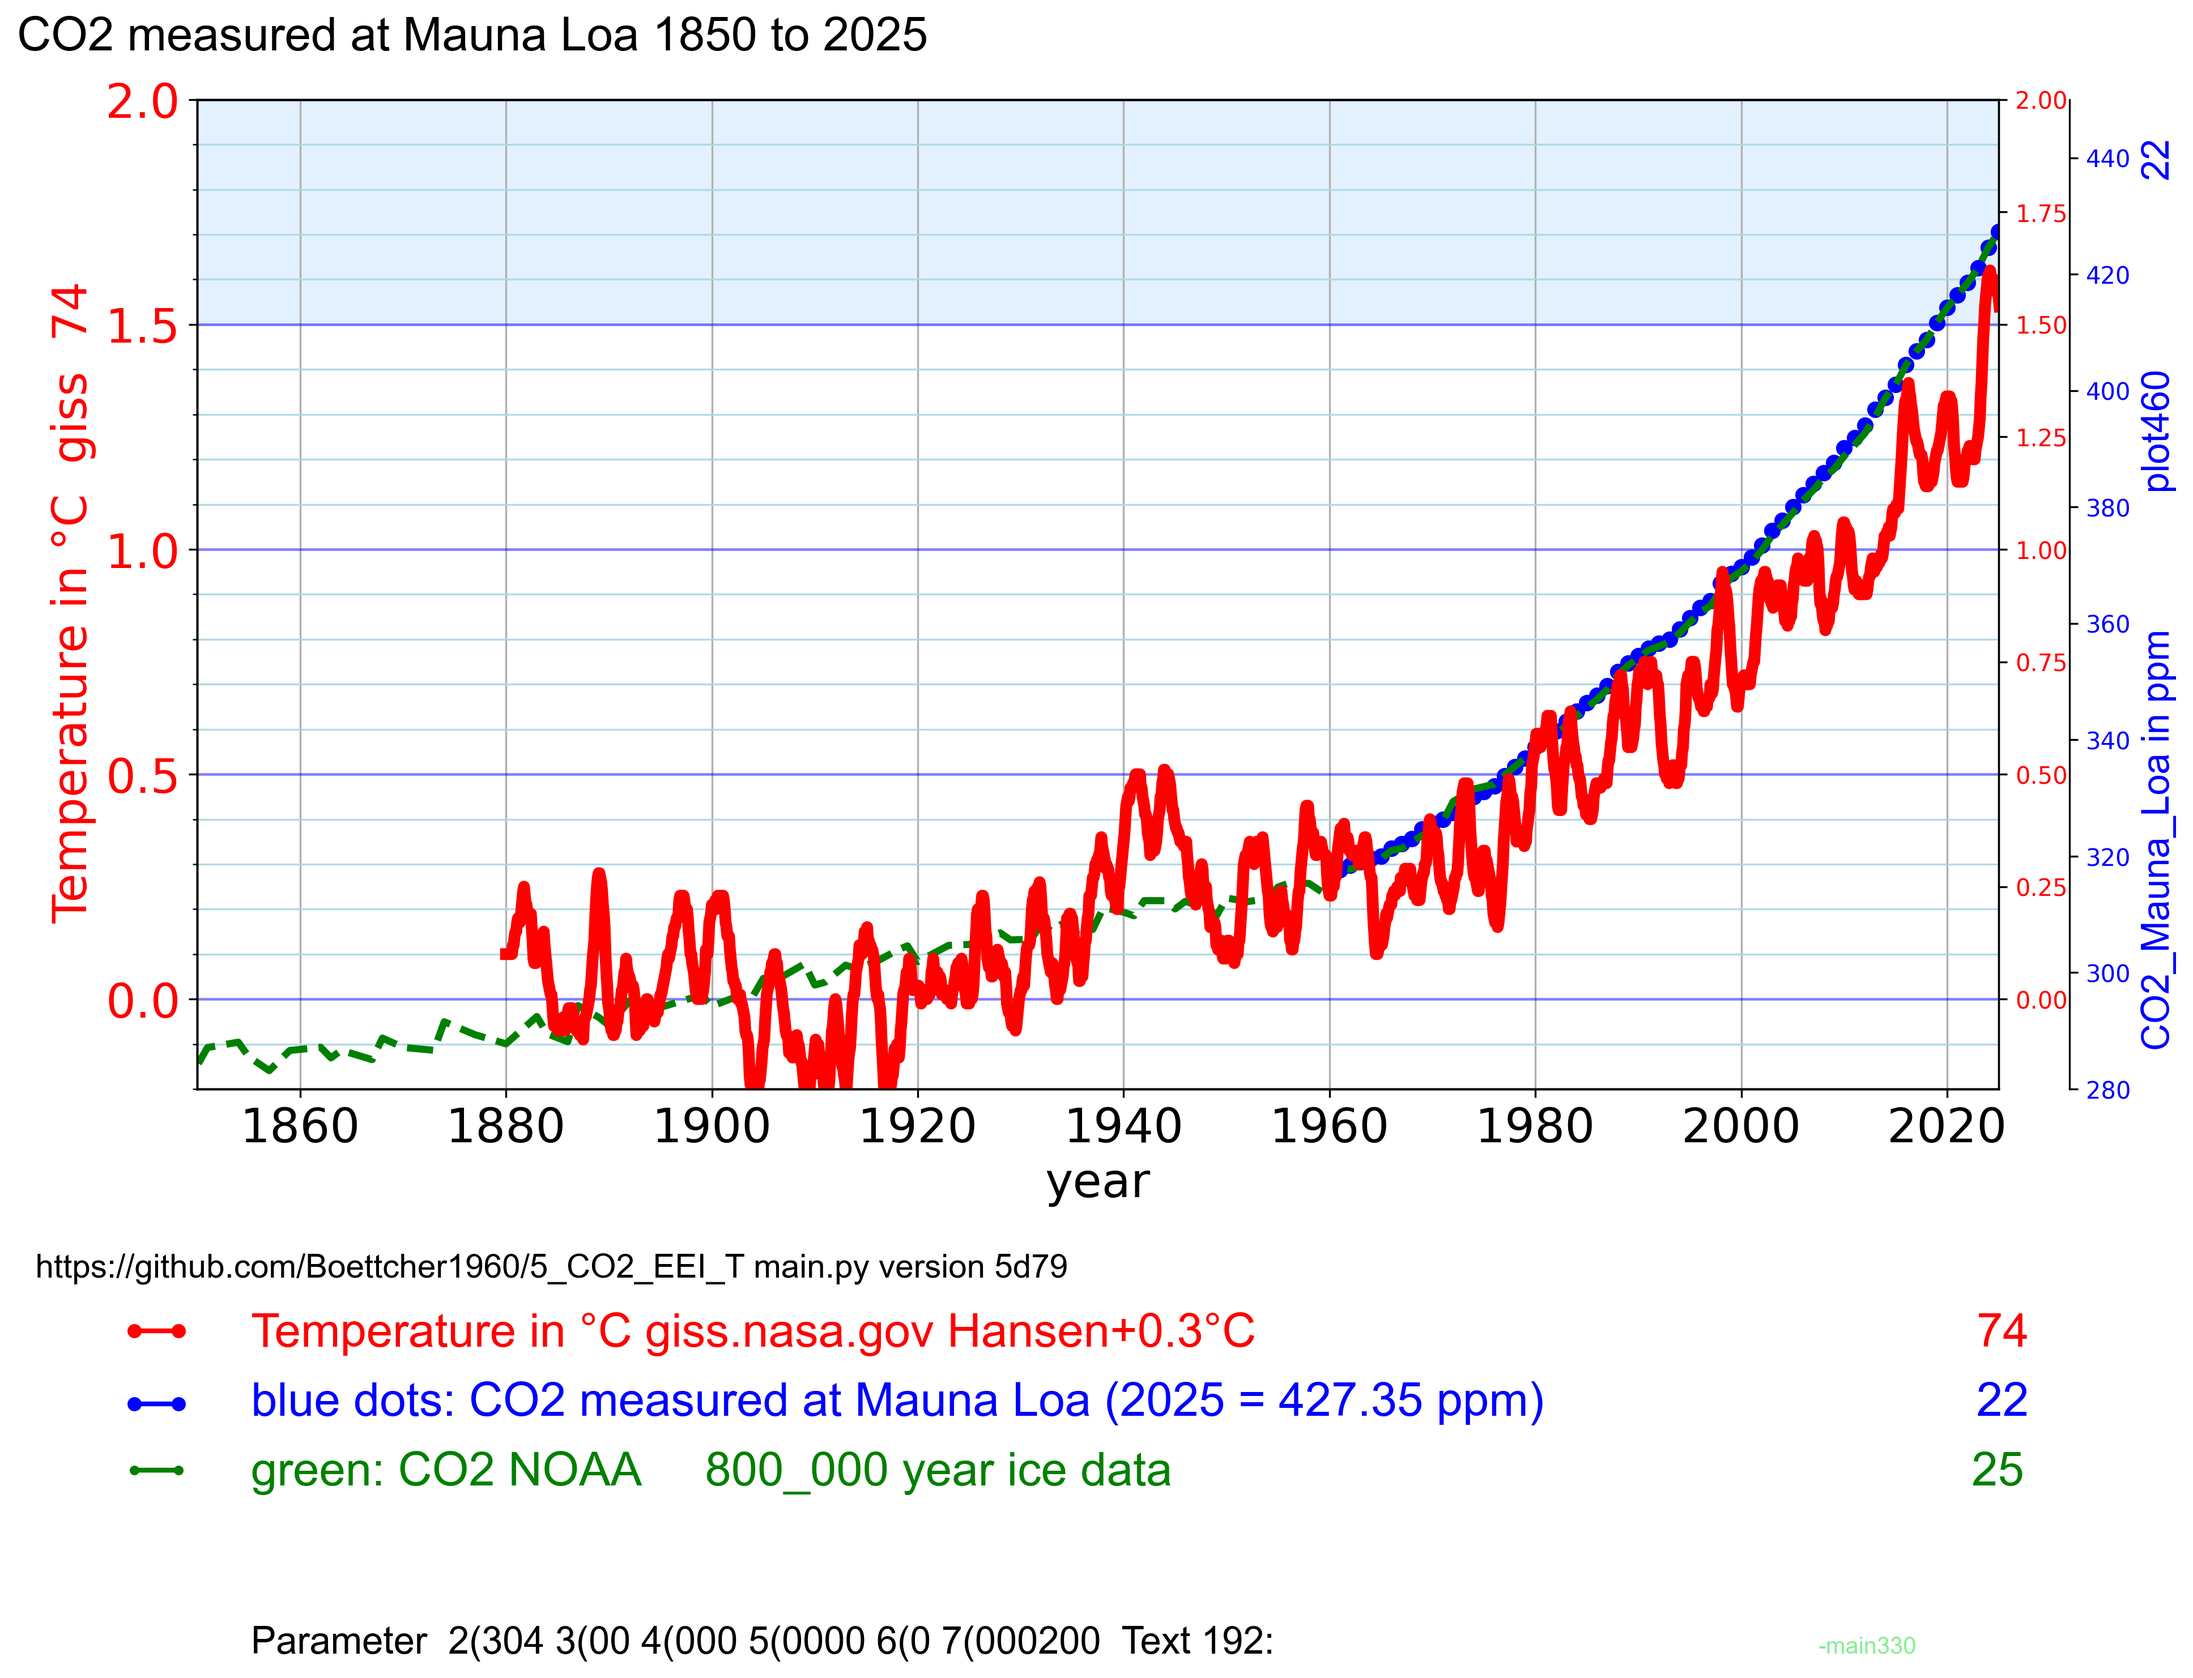
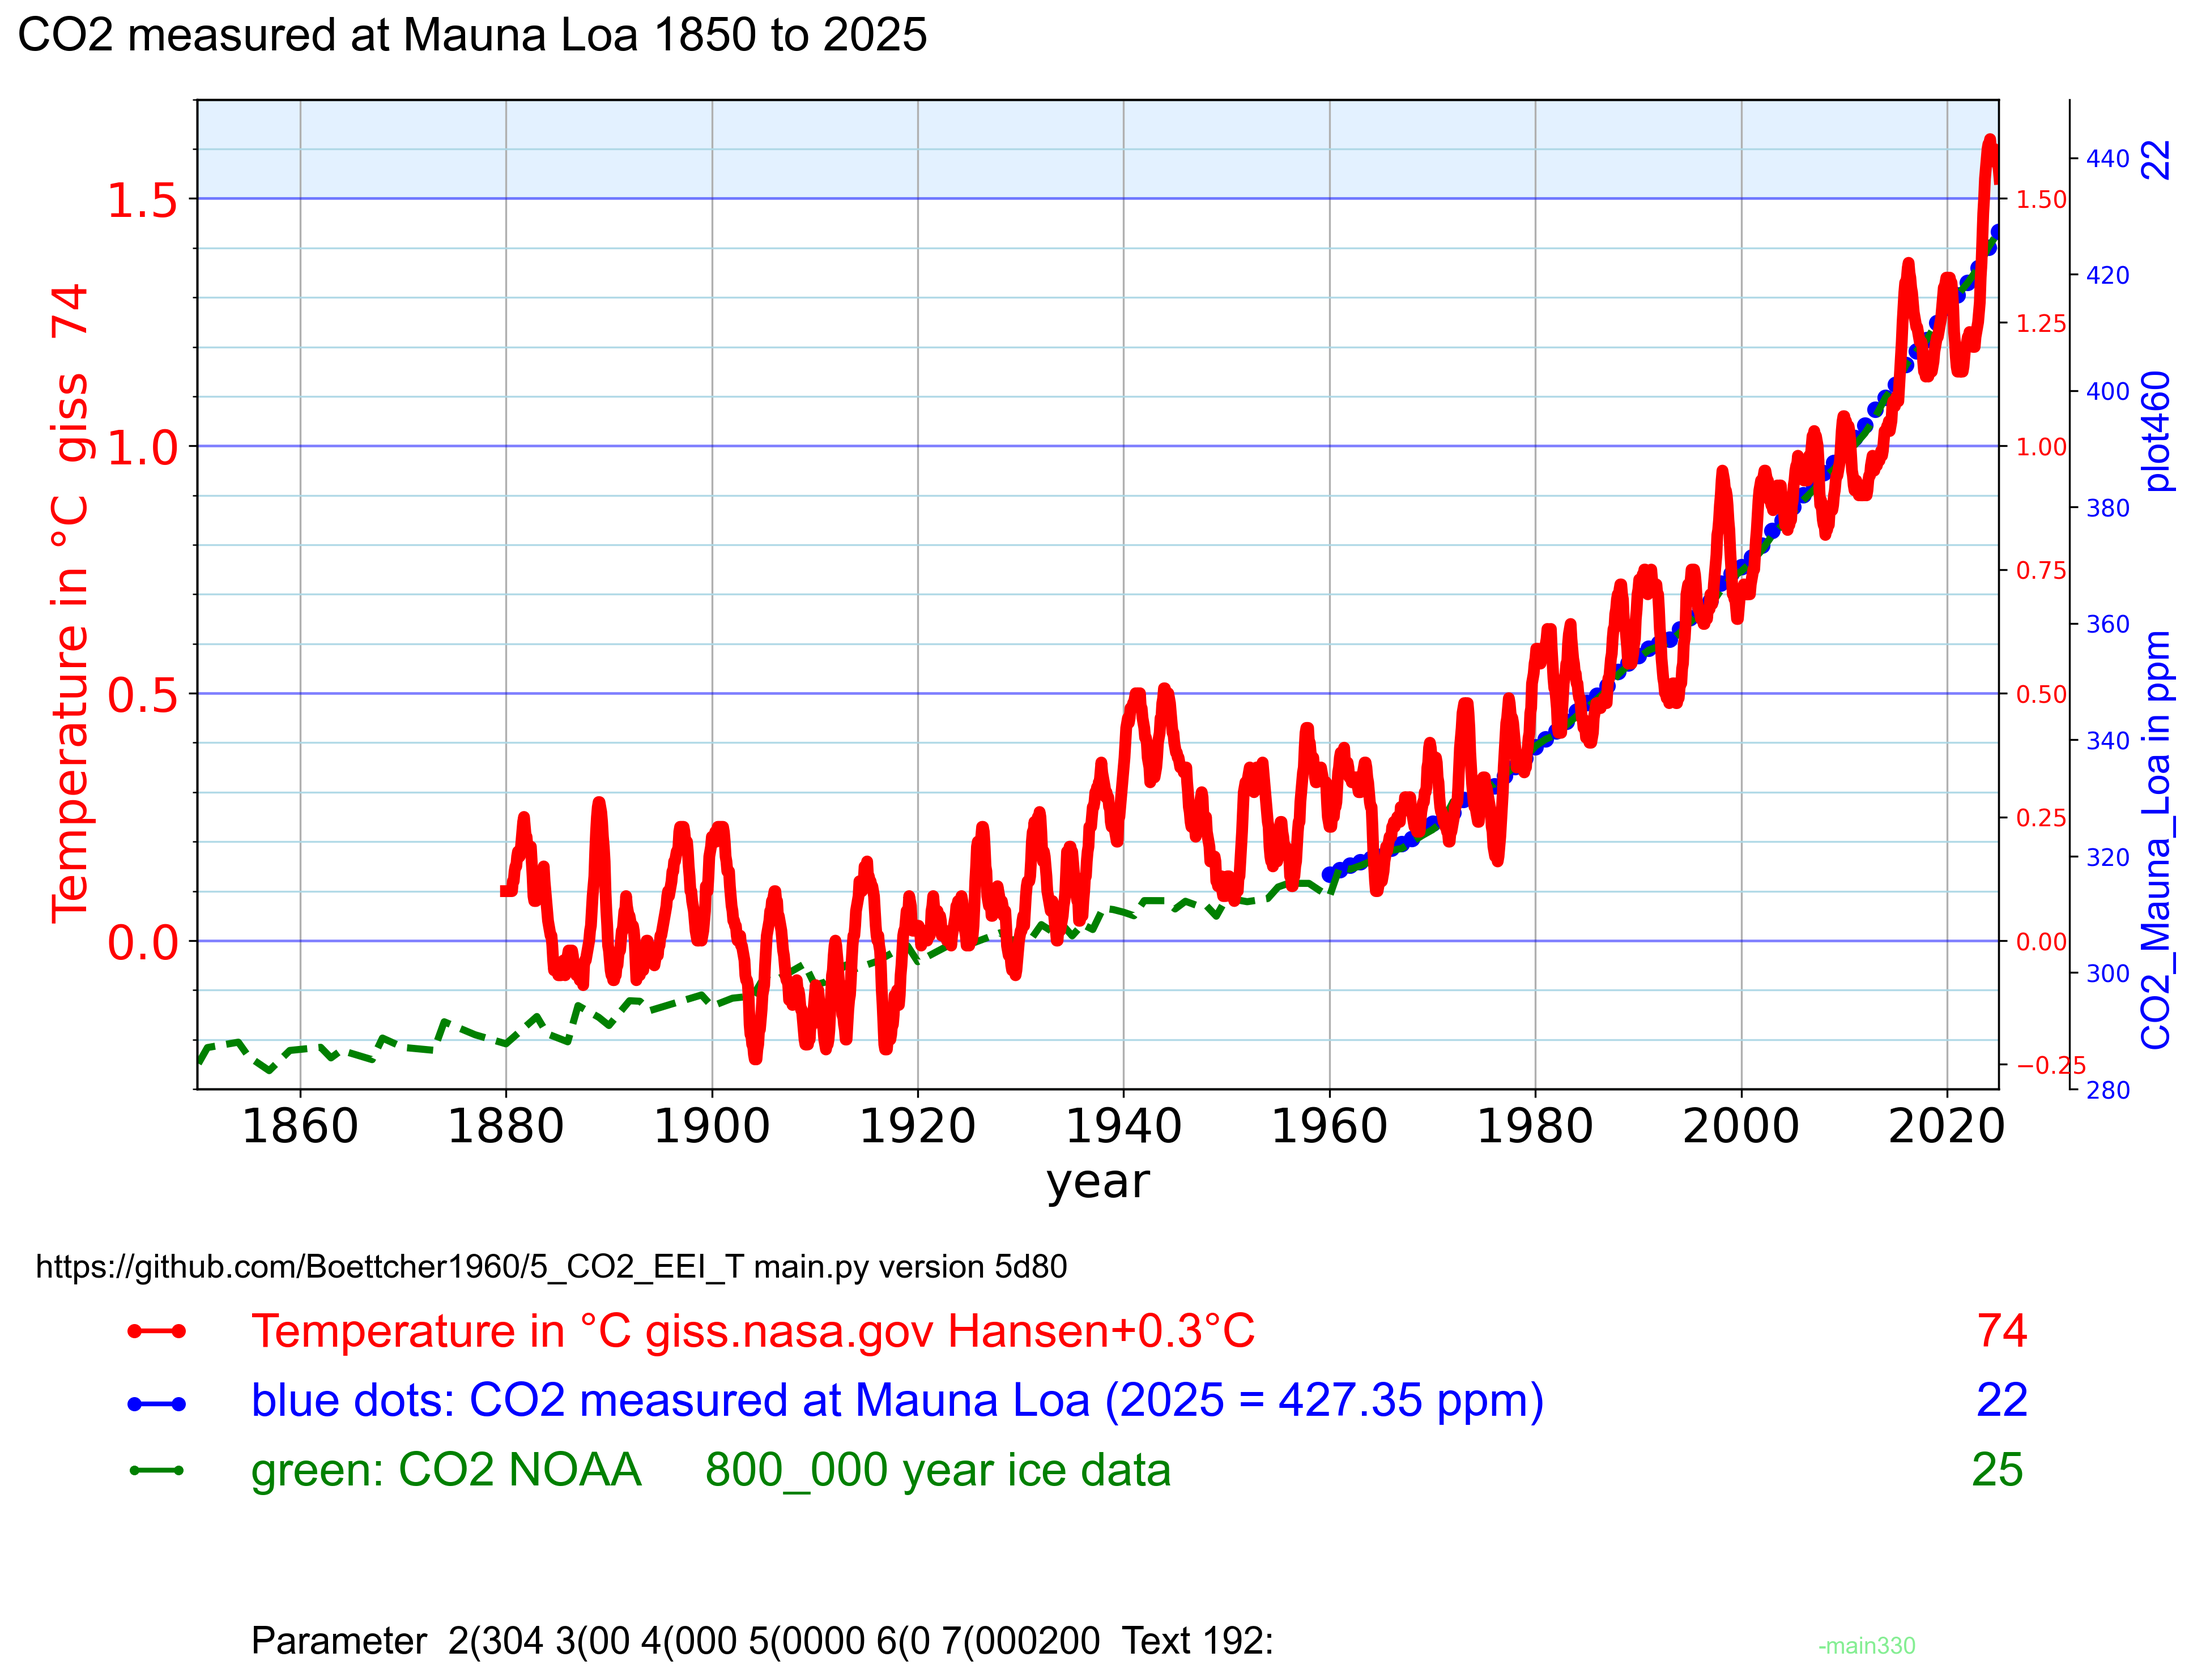
v = "5d80" # plot22_CO2_Mauna_Loa + 25

diff --git a/main.py b/main.py
@@ -1,6 +1,6 @@
 # main.py
 # part 1 configure 
-v = "5d79" # plot22_CO2_Mauna_Loa + 25
+v = "5d80" # plot22_CO2_Mauna_Loa + 25
 # plan txt to csv to png play 64 
 # ocean stratification https://bsky.app/profile/thomas-boettcher.bsky.social/post/3mj7zx7fzsc26
 # https://drtomharris.substack.com/p/the-great-decoupling-how-ocean-stratification

diff --git a/config.py b/config.py
@@ -130,8 +130,8 @@ y_52max = 4 # plot52_delta_CO2_red_bars
 y_55min = 6 # plot55_population_on = 5
 y_55max = 9 # plot55_population_on = 5
 
-y_Tmin = -0.2
-y_Tmax = 2
+y_Tmin = -0.3
+y_Tmax = 1.7
 y_74min = y_Tmin # for GIS Temperature only 
 y_74max = y_Tmax # for GIS Temperature only 
 
